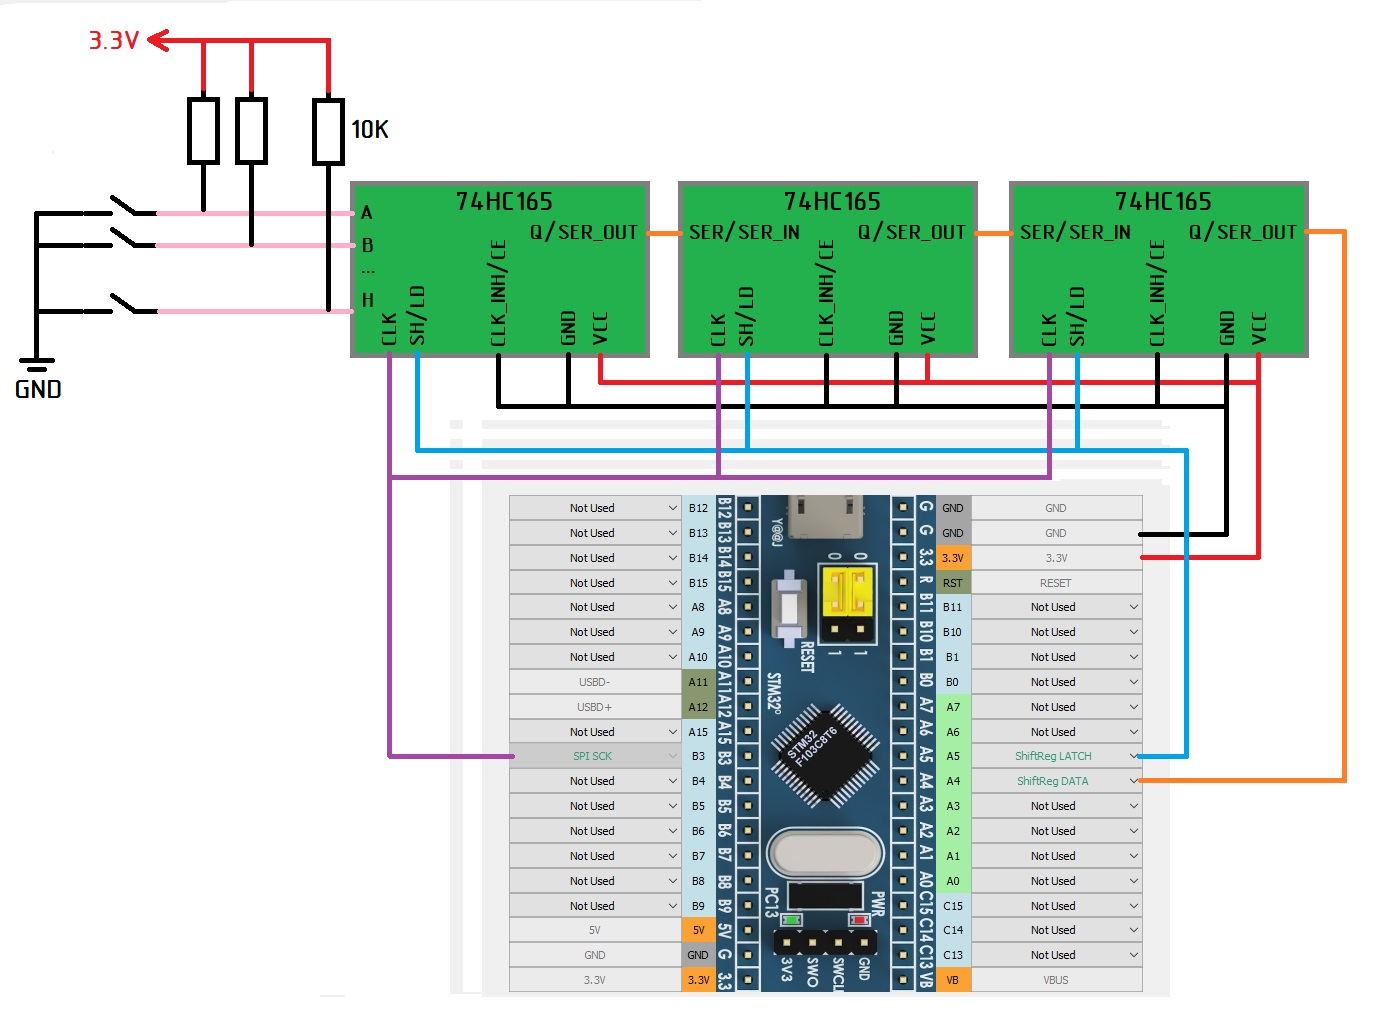
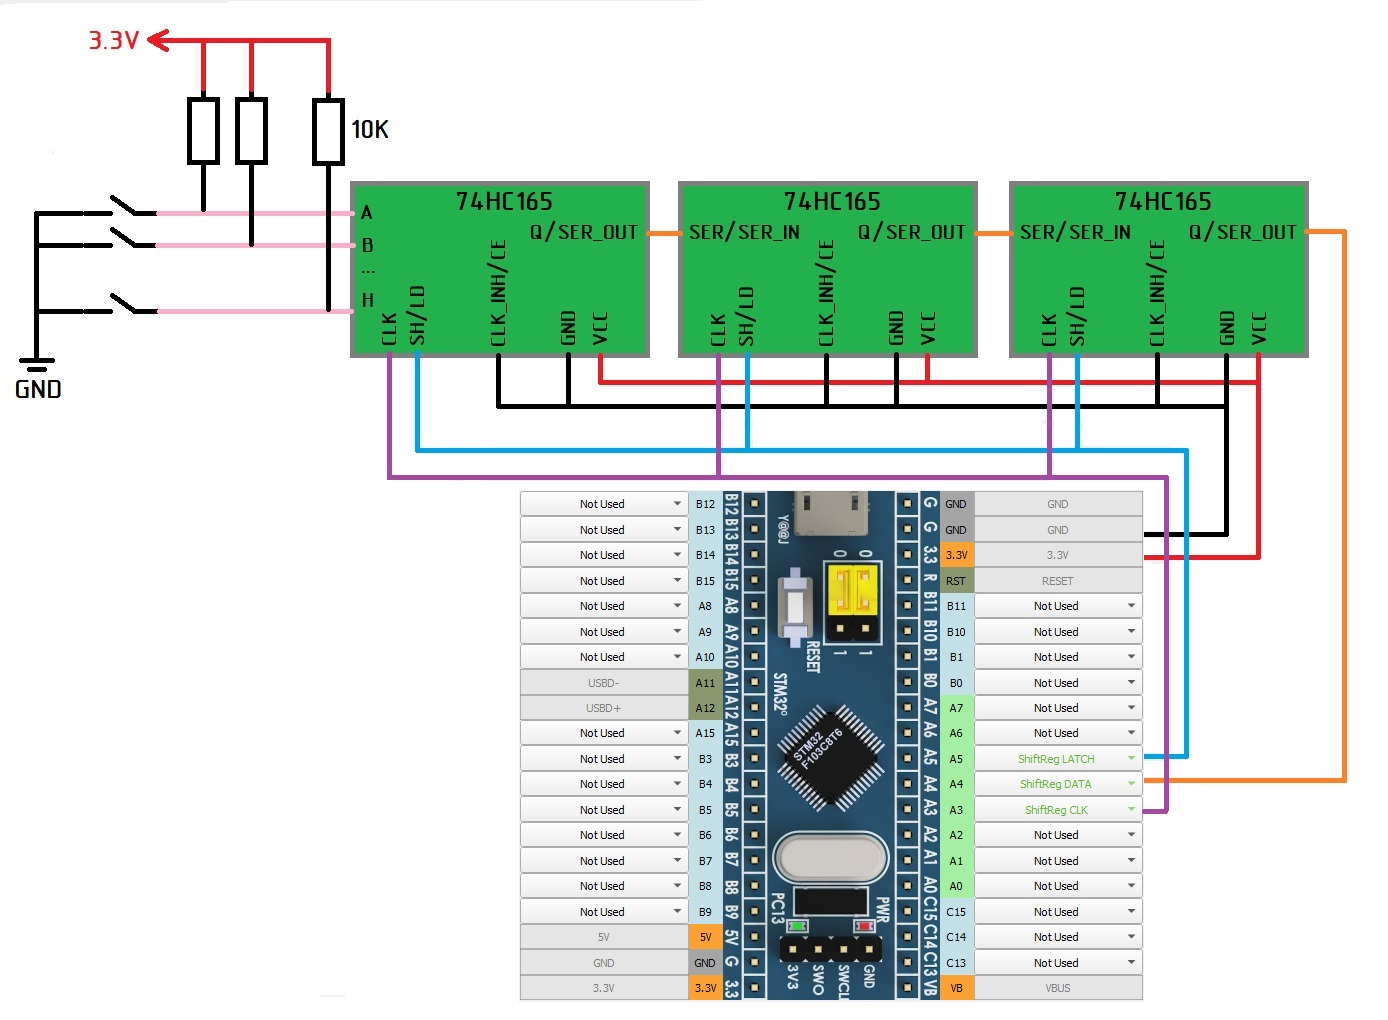
Update shift registers connection

Changed region(s): [[0.2788, 0.4559, 0.8674, 1.0]]

diff --git a/rus/Подключение-кнопок-к-сдвиговым-регистрам.md b/rus/Подключение-кнопок-к-сдвиговым-регистрам.md
@@ -15,18 +15,18 @@
 
 Файл для изготовления платы самостоятельно в Sprint Layout, находится здесь https://github.com/FreeJoy-Team/FreeJoyWiki/blob/master/3rd-party/hardware/MMJoy2_74HC165.lay6
 
-* SPI_SCK – Общий для всех TLE5011 и всех цепочек сдвиговых регистров;
+* ShiftReg_CLK – может быть общим для каждой цепочки сдвиговых регистров, либо общим для всех цепочек сдвиговых регистров;
 
 * ShiftReg_LATCH - может быть общим для каждой цепочки сдвиговых регистров, либо общим для всех цепочек сдвиговых регистров;
 
-* ShiftReg_LATCH, ShiftReg_DATA – индивидуальные для каждой цепочки сдвиговых регистров (Здесь к контактам A7, A6 подключена вторая цепочка сдвиговых регистров)
+* ShiftReg_LATCH, ShiftReg_DATA – индивидуальные для каждой цепочки сдвиговых регистров (Снизу на картинке к контактам A7, A6 подключена вторая цепочка сдвиговых регистров, а контакт A3 ShiftReg_CLK использован общий)
   Питание сдвиговых регистров рекомендуется подключать от +3,3В.
 
   На различных вариантах плат и для разных видов регистров возможны различные названия выводов. Таблица соответсвия приведена ниже:
 
 | Имя в конфигураторе | Имя пина 74HC165 | Имя пина CD4021 | Альтернативные имена |
 |---------------------|------------------|-----------------|---------------|
-|       SPI_SCK       |       CLK        |      CLOCK      |     SCK               |
+|    ShiftReg_CLK     |       CLK        |      CLOCK      |     SCK               |
 |    ShiftReg_DATA    |        Qh        |        Q8       |     DATA/SERIAL_OUT/OUT |
 |    ShiftReg_LATCH   |       SH/LD      | PAR/SER CONTROL |     LATCH             |
 |         3.3V        |        VCC       |       VDD       |     5V/V+  |

diff --git a/chs/将按键连接到移位寄存器.md b/chs/将按键连接到移位寄存器.md
@@ -17,7 +17,7 @@
 用于DIY的移位寄存器图纸文件可以在这里找到：
 https://github.com/FreeJoy-Team/FreeJoyWiki/blob/master/3rd-party/hardware/MMJoy2_74HC165.lay6
 
-* SPI_SCK - 时钟信号，对所有的TLE5011和移位寄存器链都一样。
+* ShiftReg_CLK - 所有的移位寄存器链可以单独连接也可以共同连接。
 * ShiftReg_DATA - 每条移位寄存器链单独连接（这里，第二链移位寄存器连接到了A7、A6引脚）。
 * ShiftReg_LATCH - 所有的移位寄存器链可以单独连接也可以共同连接。
 
@@ -27,7 +27,7 @@ https://github.com/FreeJoy-Team/FreeJoyWiki/blob/master/3rd-party/hardware/MMJoy
 
 | 配置程序中的名称    | 74HC165的引脚    | CD4021的引脚    | 可能的引脚名称          |
 |---------------------|------------------|-----------------|-------------------------|
-|       SPI_SCK       |       CLK        |      CLOCK      |     SCK                 |
+|    ShiftReg_CLK     |       CLK        |      CLOCK      |     SCK                 |
 |    ShiftReg_DATA    |        Qh        |        Q8       |     DATA/SERIAL_OUT/OUT |
 |    ShiftReg_LATCH   |       SH/LD      | PAR/SER CONTROL |     LATCH               |
 |         3.3V        |        VCC       |       VDD       |     5V/V+               |

diff --git a/eng/Connecting-buttons-to-shift-registers.md b/eng/Connecting-buttons-to-shift-registers.md
@@ -16,7 +16,7 @@ PCB for shift registers may be bought pre-made or made by yourself. Purchased sh
 Files for DIY shift registers board may be found here:
 https://github.com/FreeJoy-Team/FreeJoyWiki/blob/master/3rd-party/hardware/MMJoy2_74HC165.lay6
 
-* SPI_SCK - Common for all TLE5011 and all shift register chains.
+* ShiftReg_CLK - may be common or individual for all shift registers chains
 * ShiftReg_DATA - individual for each chain of shift registers (Here, the second chain of shift registers is connected to pins A7, A6)
 * ShiftReg_LATCH - may be common or individual for all shift registers chains
 
@@ -26,7 +26,7 @@ Different boards and shift registers have different pin names. See the table bel
 
 | Name in configurator | 74HC165 pin | CD4021 pin | Alternative pin names |
 |---------------------|------------------|-----------------|---------------|
-|       SPI_SCK       |       CLK        |      CLOCK      |     SCK               |
+|    ShiftReg_CLK     |       CLK        |      CLOCK      |     SCK               |
 |    ShiftReg_DATA    |        Qh        |        Q8       |     DATA/SERIAL_OUT/OUT |
 |    ShiftReg_LATCH   |       SH/LD      | PAR/SER CONTROL |     LATCH             |
 |         3.3V        |        VCC       |       VDD       |     5V/V+  |
